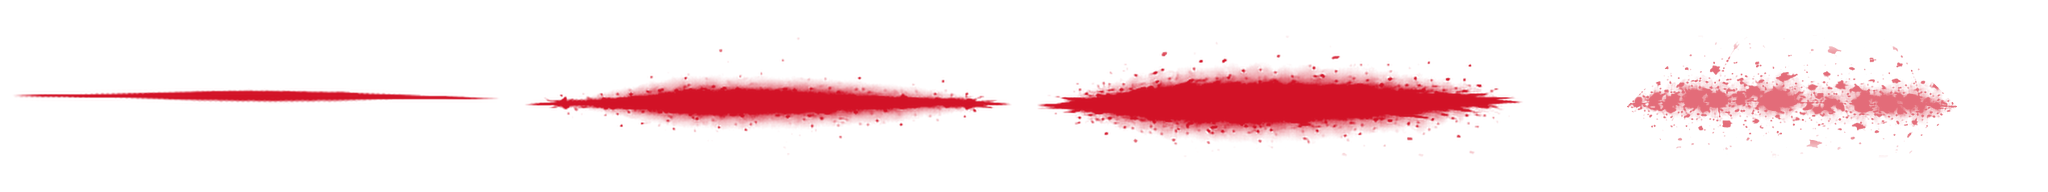
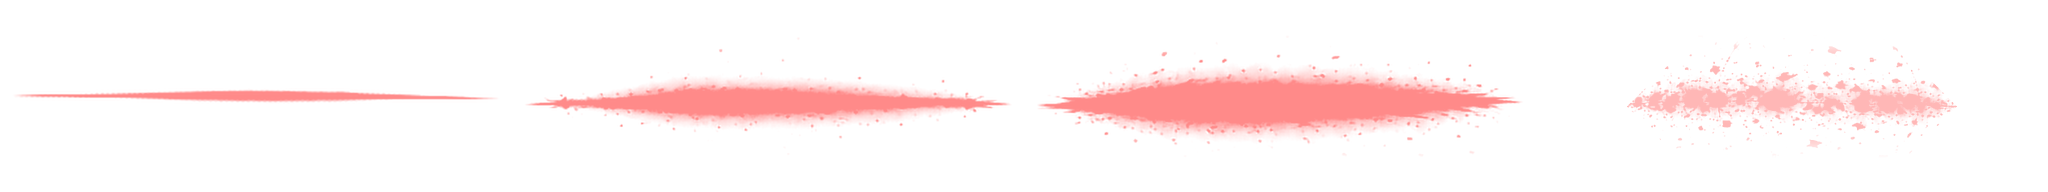
Tune KO trail rendering

diff --git a/js/game.js b/js/game.js
@@ -12,10 +12,10 @@ window.SMA.triggerComet = function (x, y, dir, col) { if (window.SMA.isHost && w
 window.SMA.drawComets = function (ctx) { for (var i = window.SMA.comets.length - 1; i >= 0; i--) { var c = window.SMA.comets[i]; ctx.fillStyle = c.color; ctx.save(); ctx.shadowBlur = 20; ctx.shadowColor = c.color; ctx.beginPath(); ctx.arc(c.x, c.y, 20, 0, Math.PI * 2); ctx.fill(); ctx.beginPath(); ctx.strokeStyle = c.color; ctx.lineWidth = 10; ctx.moveTo(c.x, c.y); ctx.lineTo(c.x - c.vx * 4, c.y - c.vy * 4); ctx.stroke(); ctx.restore(); } };
 window.SMA.koBlastTrails = window.SMA.koBlastTrails || [];
 window.SMA.KO_TRAIL_ASSETS = {
-    red: { key: 'ko_trail_red_sheet_v1', src: 'assets/effects/ko_trail_red_sheet.png?v=1' },
-    blue: { key: 'ko_trail_blue_sheet_v1', src: 'assets/effects/ko_trail_blue_sheet.png?v=1' },
-    yellow: { key: 'ko_trail_yellow_sheet_v1', src: 'assets/effects/ko_trail_yellow_sheet.png?v=1' },
-    green: { key: 'ko_trail_green_sheet_v1', src: 'assets/effects/ko_trail_green_sheet.png?v=1' },
+    red: { key: 'ko_trail_red_sheet_v3', src: 'assets/effects/ko_trail_red_sheet.png?v=3' },
+    blue: { key: 'ko_trail_blue_sheet_v3', src: 'assets/effects/ko_trail_blue_sheet.png?v=3' },
+    yellow: { key: 'ko_trail_yellow_sheet_v3', src: 'assets/effects/ko_trail_yellow_sheet.png?v=3' },
+    green: { key: 'ko_trail_green_sheet_v3', src: 'assets/effects/ko_trail_green_sheet.png?v=3' },
     frameW: 512,
     frameH: 192,
     frames: 4
@@ -29,14 +29,24 @@ window.SMA.getKoBlastVector = function (dir, vx, vy) {
     if (dir === 'down') return { x: 0, y: 1 };
     return { x: 0, y: -1 };
 };
-window.SMA.getKoBlastPoint = function (x, y, dir) {
-    var b = window.SMA.getActiveBlastBounds ? window.SMA.getActiveBlastBounds() : { left: window.SMA.BLAST_LEFT, right: window.SMA.BLAST_RIGHT, top: window.SMA.BLAST_TOP, bottom: window.SMA.BLAST_BOTTOM };
-    var px = Math.max(b.left + 120, Math.min(b.right - 120, x));
-    var py = Math.max(b.top + 90, Math.min(b.bottom - 90, y));
-    if (dir === 'left') px = b.left + 70;
-    else if (dir === 'right') px = b.right - 70;
-    else if (dir === 'up') py = b.top + 70;
-    else if (dir === 'down') py = b.bottom - 70;
+window.SMA.worldToScreenPoint = function (x, y) {
+    var cam = window.SMA.camera || { x: 0, y: 0, zoom: 1 };
+    var sw = window.SMA.SCREEN_W || 1280;
+    var sh = window.SMA.SCREEN_H || 720;
+    var zoom = cam.zoom || 1;
+    return {
+        x: (x - cam.x) * zoom + sw / 2,
+        y: (y - cam.y) * zoom + sh / 2
+    };
+};
+window.SMA.getKoBlastScreenPoint = function (x, y) {
+    var sw = window.SMA.SCREEN_W || 1280;
+    var sh = window.SMA.SCREEN_H || 720;
+    var padX = Math.max(82, Math.min(150, sw * 0.12));
+    var padY = Math.max(92, Math.min(150, sh * 0.14));
+    var screen = window.SMA.worldToScreenPoint ? window.SMA.worldToScreenPoint(x, y) : { x: sw / 2, y: sh / 2 };
+    var px = Math.max(padX, Math.min(sw - padX, screen.x));
+    var py = Math.max(padY, Math.min(sh - padY, screen.y));
     return { x: px, y: py };
 };
 window.SMA.getKoPlayerColor = function (fighter) {
@@ -76,9 +86,9 @@ window.SMA.preloadKoTrailAssets = function () {
 window.SMA.triggerKoBlastFx = function (x, y, dir, col, vx, vy) {
     if (window.SMA.isHost && window.SMA.isOnline) window.SMA.syncEvents.push({ type: 'ko_fx', x: x, y: y, dir: dir, c: col, vx: vx || 0, vy: vy || 0 });
     var v = window.SMA.getKoBlastVector(dir, vx, vy);
-    var p = window.SMA.getKoBlastPoint(x, y, dir);
+    var p = window.SMA.getKoBlastScreenPoint(x, y);
     if (window.SMA.preloadKoTrailAssets) window.SMA.preloadKoTrailAssets();
-    window.SMA.koBlastTrails.push({ x: p.x, y: p.y, dirX: v.x, dirY: v.y, asset: window.SMA.getKoTrailAssetName(col), life: 34, maxLife: 34, scaleX: 5.6, scaleY: 2.9 });
+    window.SMA.koBlastTrails.push({ x: p.x, y: p.y, dirX: v.x, dirY: v.y, asset: window.SMA.getKoTrailAssetName(col), life: 38, maxLife: 38, scaleX: 1.75, scaleY: 0.55, anchor: 0.5 });
 };
 window.SMA.updateKoBlastFx = function () {
     for (var i = window.SMA.koBlastTrails.length - 1; i >= 0; i--) { var t = window.SMA.koBlastTrails[i]; t.life--; if (t.life <= 0) window.SMA.koBlastTrails.splice(i, 1); }
@@ -94,14 +104,16 @@ window.SMA.drawKoBlastFx = function (ctx) {
         var progress = 1 - (t.life / t.maxLife);
         var frame = Math.min(assets.frames - 1, Math.floor(progress * assets.frames));
         var alpha = progress < 0.86 ? 1 : Math.max(0, 1 - (progress - 0.86) / 0.14);
-        var drawW = assets.frameW * (t.scaleX || t.scale || 1);
-        var drawH = assets.frameH * (t.scaleY || t.scale || 1);
+        var baseLen = Math.max(window.SMA.SCREEN_W || 1280, window.SMA.SCREEN_H || 720);
+        var drawW = baseLen * (t.scaleX || t.scale || 1);
+        var drawH = assets.frameH * (drawW / assets.frameW) * (t.scaleY || t.scale || 1);
+        var anchor = t.anchor == null ? 0.82 : t.anchor;
         var angle = Math.atan2(t.dirY || 0, t.dirX || 1);
         ctx.save();
         ctx.globalAlpha = alpha;
         ctx.translate(t.x, t.y);
         ctx.rotate(angle);
-        ctx.drawImage(img, frame * assets.frameW, 0, assets.frameW, assets.frameH, -drawW * 0.18, -drawH / 2, drawW, drawH);
+        ctx.drawImage(img, frame * assets.frameW, 0, assets.frameW, assets.frameH, -drawW * anchor, -drawH / 2, drawW, drawH);
         ctx.restore();
     }
     ctx.restore();
@@ -599,6 +611,7 @@ window.SMA.gameLoop = function () {
                 window.SMA.ctx.fillRect(0, 0, window.SMA.SCREEN_W, window.SMA.SCREEN_H);
                 window.SMA.drawStageImageCover(window.SMA.ctx, window.SMA.STAGE_ASSETS.battlefieldBg, 0, 0, window.SMA.SCREEN_W, window.SMA.SCREEN_H);
             }
+            window.SMA.drawKoBlastFx(window.SMA.ctx);
 
             var shakeX = (Math.random() - 0.5) * window.SMA.shake;
             var shakeY = (Math.random() - 0.5) * window.SMA.shake;
@@ -771,7 +784,7 @@ window.SMA.gameLoop = function () {
                     window.SMA.ctx.shadowBlur = 0;
                     window.SMA.ctx.restore();
                 } else { window.SMA.ctx.fillStyle = p.color; window.SMA.ctx.beginPath(); window.SMA.ctx.arc(p.x, p.y, p.w / 2, 0, Math.PI * 2); window.SMA.ctx.fill(); }
-            } window.SMA.drawMageTransientVfx(window.SMA.ctx); window.SMA.drawComets(window.SMA.ctx); window.SMA.drawKoBlastFx(window.SMA.ctx); window.SMA.updateParticles(window.SMA.ctx); window.SMA.drawDebugHitboxes(window.SMA.ctx); window.SMA.ctx.restore();
+            } window.SMA.drawMageTransientVfx(window.SMA.ctx); window.SMA.drawComets(window.SMA.ctx); window.SMA.updateParticles(window.SMA.ctx); window.SMA.drawDebugHitboxes(window.SMA.ctx); window.SMA.ctx.restore();
         } window.SMA.updateHud();
     } catch (e) { reportError("Loop Error: " + e); } window.SMA.animationFrameId = requestAnimationFrame(window.SMA.gameLoop);
 };
@@ -1550,7 +1563,7 @@ window.SMA.Fighter.prototype.checkLedgeGrab = function () {
         }
     }
 };
-window.SMA.Fighter.prototype.checkBounds = function () { var S = window.SMA; var b = S.getActiveBlastBounds ? S.getActiveBlastBounds() : { left: S.BLAST_LEFT, right: S.BLAST_RIGHT, top: S.BLAST_TOP, bottom: S.BLAST_BOTTOM }; var dieDir = null; var dx = this.x; var dy = this.y; if (this.y < b.top) dieDir = 'up'; else if (this.x > b.right) dieDir = 'right'; else if (this.x < b.left) dieDir = 'left'; else if (this.y > b.bottom) dieDir = 'down'; if (dieDir) this.die(dieDir, dx, dy, this.vx, this.vy); };
+window.SMA.Fighter.prototype.checkBounds = function () { var S = window.SMA; var b = S.getActiveBlastBounds ? S.getActiveBlastBounds() : { left: S.BLAST_LEFT, right: S.BLAST_RIGHT, top: S.BLAST_TOP, bottom: S.BLAST_BOTTOM }; var dieDir = null; var dx = this.x + this.w / 2; var dy = this.y + this.h / 2; if (this.y < b.top) dieDir = 'up'; else if (this.x > b.right) dieDir = 'right'; else if (this.x < b.left) dieDir = 'left'; else if (this.y > b.bottom) dieDir = 'down'; if (dieDir) this.die(dieDir, dx, dy, this.vx, this.vy); };
 window.SMA.Fighter.prototype.checkSolids = function () { var S = window.SMA; for (var p of S.platforms) { if (p.type === 'main') { if (this.x < p.x + p.w && this.x + this.w > p.x && this.y < p.y + p.h && this.y + this.h > p.y) { var overlapX = (this.x + this.w / 2) - (p.x + p.w / 2); var overlapY = (this.y + this.h / 2) - (p.y + p.h / 2); var halfW = (this.w + p.w) / 2; var halfH = (this.h + p.h) / 2; var ox = halfW - Math.abs(overlapX); var oy = halfH - Math.abs(overlapY); if (ox < oy) { if (overlapX > 0) { this.x += ox; this.vx = 0; } else { this.x -= ox; this.vx = 0; } } else { if (overlapY > 0) { this.y += oy; this.vy = 0; } else { this.y -= oy; this.vy = 0; this.isGrounded = true; this.jumps = 0; this.currentPlatform = p; this.hasAirDodged = false; this.hasUpSpecial = false; } } } } } };
 window.SMA.Fighter.prototype.performDodge = function (inputKeys) { var S = window.SMA; if (this.dodgeCooldown > 0) return false; if (!this.isGrounded && this.hasAirDodged) return false; this.actionState = 'DODGE'; this.stateTimer = 25; this.invincible = 20; this.dodgeCooldown = 55; var dx = 0; var dy = 0; if (inputKeys.left) dx = -1; if (inputKeys.right) dx = 1; if (inputKeys.up) dy = -1; if (inputKeys.down) dy = 1; if (dx !== 0 || dy !== 0) { var speed = 12; if (dx !== 0 && dy !== 0) { dx *= 0.707; dy *= 0.707; } this.vx = dx * speed; this.vy = dy * speed; } if (!this.isGrounded) this.hasAirDodged = true; S.playSound('jump'); S.createParticles(this.x + 15, this.y + 30, 10, '#fff'); return true; };
 window.SMA.Fighter.prototype.tryGrab = function (opponent) {

diff --git a/index.html b/index.html
@@ -311,7 +311,7 @@
     <script src="js/main.js?v=718"></script>
     <script src="js/network.js?v=714"></script>
     <script src="js/audio.js?v=713"></script>
-    <script src="js/game.js?v=888"></script>
+    <script src="js/game.js?v=896"></script>
     <script src="js/ui.js?v=718"></script>
 </body>
 
